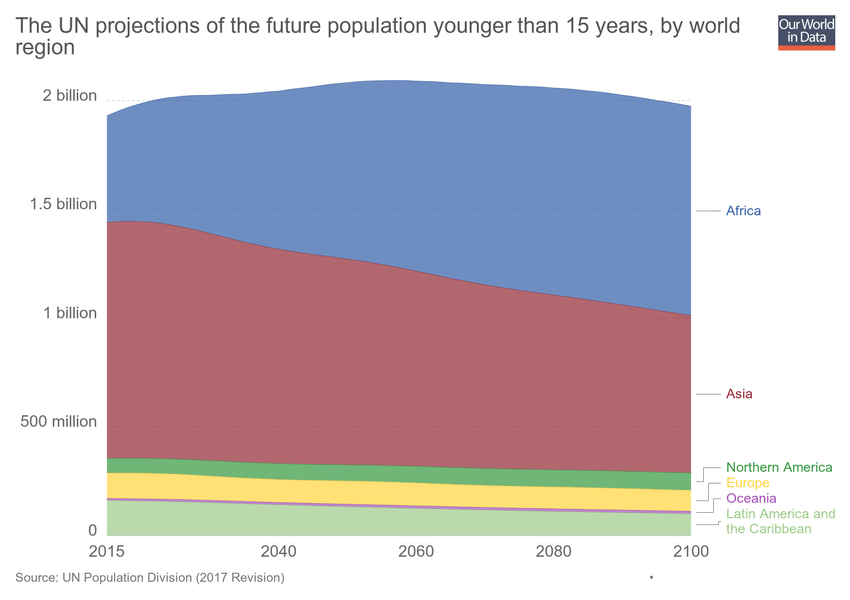
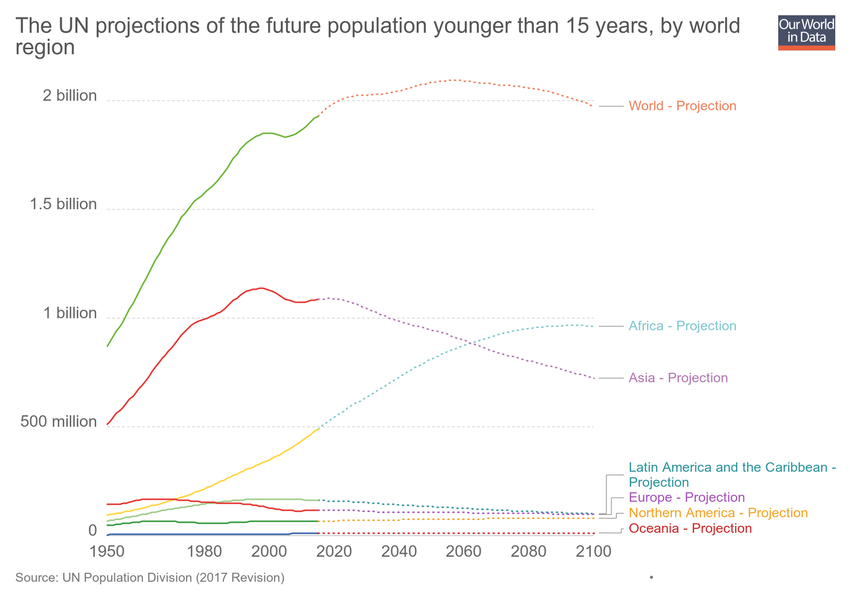
Updating chart younger-than-15-projection-until-2100-un

diff --git a/grapher/younger-than-15-projection-until-2100-un.html b/grapher/younger-than-15-projection-until-2100-un.html
@@ -1,4 +1,4 @@
-<!doctype html><html><head><meta name="viewport" content="width=device-width, initial-scale=1" /><title>The UN projections of the future population younger than 15 years, by world region - Our World in Data</title><meta name="description" content="An interactive visualization from Our World in Data." /><link rel="canonical" href="https://ourworldindata.org/grapher/younger-than-15-projection-until-2100-un" /><meta property="fb:app_id" content="1149943818390250" /><meta property="og:url" content="https://ourworldindata.org/grapher/younger-than-15-projection-until-2100-un" /><meta property="og:title" content="The UN projections of the future population younger than 15 years, by world region" /><meta property="og:description" content="An interactive visualization from Our World in Data." /><meta property="og:image" content="https://ourworldindata.org/grapher/exports/younger-than-15-projection-until-2100-un.png?v=5" /><meta property="og:image:width" content="850" /><meta property="og:image:height" content="600" /><meta property="og:site_name" content="Our World in Data" /><meta name="twitter:card" content="summary_large_image" /><meta name="twitter:site" content="@OurWorldInData" /><meta name="twitter:creator" content="@OurWorldInData" /><meta name="twitter:title" content="The UN projections of the future population younger than 15 years, by world region" /><meta name="twitter:description" content="An interactive visualization from Our World in Data." /><meta name="twitter:image" content="https://ourworldindata.org/grapher/exports/younger-than-15-projection-until-2100-un.png?v=5" /><style>
+<!doctype html><html><head><meta name="viewport" content="width=device-width, initial-scale=1" /><title>The UN projections of the future population younger than 15 years, by world region - Our World in Data</title><meta name="description" content="An interactive visualization from Our World in Data." /><link rel="canonical" href="https://ourworldindata.org/grapher/younger-than-15-projection-until-2100-un" /><meta property="fb:app_id" content="1149943818390250" /><meta property="og:url" content="https://ourworldindata.org/grapher/younger-than-15-projection-until-2100-un" /><meta property="og:title" content="The UN projections of the future population younger than 15 years, by world region" /><meta property="og:description" content="An interactive visualization from Our World in Data." /><meta property="og:image" content="https://ourworldindata.org/grapher/exports/younger-than-15-projection-until-2100-un.png?v=6" /><meta property="og:image:width" content="850" /><meta property="og:image:height" content="600" /><meta property="og:site_name" content="Our World in Data" /><meta name="twitter:card" content="summary_large_image" /><meta name="twitter:site" content="@OurWorldInData" /><meta name="twitter:creator" content="@OurWorldInData" /><meta name="twitter:title" content="The UN projections of the future population younger than 15 years, by world region" /><meta name="twitter:description" content="An interactive visualization from Our World in Data." /><meta name="twitter:image" content="https://ourworldindata.org/grapher/exports/younger-than-15-projection-until-2100-un.png?v=6" /><style>
         html, body {
             height: 100%;
             margin: 0;
@@ -20,8 +20,8 @@
         }
     </style><noscript><style>
                     figure { display: none !important; }
-                </style></noscript><link rel="stylesheet" href="https://ourworldindata.org/grapher/assets/commons.bundle.dcbbe53805c487d5e57617b10ac73a8a.css" /><link rel="preload" href="/grapher/data/variables/8469.json?v=5" as="fetch" crossorigin /></head><body class="singleChart"><figure data-grapher-src="/grapher/younger-than-15-projection-until-2100-un"></figure><noscript id="fallback"><img src="/grapher/exports/younger-than-15-projection-until-2100-un.svg" /><p>Interactive visualization requires JavaScript</p></noscript><script src="https://cdn.polyfill.io/v2/polyfill.min.js?features=es6,fetch"></script><script src="https://ourworldindata.org/grapher/assets/commons.bundle.da523acc49807a06a11f.js"></script><script src="https://ourworldindata.org/grapher/assets/charts.bundle.da523acc49807a06a11f.js"></script><script>
-        var jsonConfig = {"id":2822,"map":{"projection":"World","targetYear":2000,"variableId":8523,"timeTolerance":1,"baseColorScheme":"BuGn","colorSchemeInvert":false,"colorSchemeLabels":[],"colorSchemeValues":[],"legendDescription":"","customColorsActive":false,"colorSchemeMinValue":0,"customNumericColors":[],"customCategoryColors":{},"customCategoryLabels":{},"customHiddenCategories":{}},"tab":"chart","note":"","slug":"younger-than-15-projection-until-2100-un","type":"StackedArea","title":"The UN projections of the future population younger than 15 years, by world region","xAxis":{"scaleType":"linear"},"yAxis":{"min":0,"scaleType":"linear","labelDistance":-10},"version":5,"hasMapTab":false,"originUrl":"","stackMode":null,"dimensions":[{"display":{"name":"Projection","unit":" ","tolerance":5,"isProjection":true},"property":"y","variableId":8469}],"entityType":"country","hideLegend":false,"hasChartTab":true,"isPublished":true,"selectedData":[{"color":"#3360a9","index":0,"entityId":273},{"color":"#932834","index":0,"entityId":275},{"color":"#34983f","index":0,"entityId":450},{"color":"#ffd53e","index":0,"entityId":276},{"color":"#a652ba","index":0,"entityId":277},{"color":"#9ecc8a","index":0,"entityId":343}],"internalNotes":"","addCountryMode":"add-country","hideRelativeToggle":false,"hideTitleAnnotation":true};
+                </style></noscript><link rel="stylesheet" href="https://ourworldindata.org/grapher/assets/commons.bundle.dcbbe53805c487d5e57617b10ac73a8a.css" /><link rel="preload" href="/grapher/data/variables/8469+8412.json?v=6" as="fetch" crossorigin /></head><body class="singleChart"><figure data-grapher-src="/grapher/younger-than-15-projection-until-2100-un"></figure><noscript id="fallback"><img src="/grapher/exports/younger-than-15-projection-until-2100-un.svg" /><p>Interactive visualization requires JavaScript</p></noscript><script src="https://cdn.polyfill.io/v2/polyfill.min.js?features=es6,fetch"></script><script src="https://ourworldindata.org/grapher/assets/commons.bundle.da523acc49807a06a11f.js"></script><script src="https://ourworldindata.org/grapher/assets/charts.bundle.da523acc49807a06a11f.js"></script><script>
+        var jsonConfig = {"id":2822,"map":{"projection":"World","targetYear":2000,"variableId":8523,"timeTolerance":1,"baseColorScheme":"BuGn","colorSchemeInvert":false,"colorSchemeLabels":[],"colorSchemeValues":[],"legendDescription":"","customColorsActive":false,"colorSchemeMinValue":0,"customNumericColors":[],"customCategoryColors":{},"customCategoryLabels":{},"customHiddenCategories":{}},"tab":"chart","note":"","slug":"younger-than-15-projection-until-2100-un","type":"LineChart","title":"The UN projections of the future population younger than 15 years, by world region","xAxis":{"scaleType":"linear"},"yAxis":{"min":0,"scaleType":"linear","labelDistance":-10},"version":6,"hasMapTab":false,"originUrl":"","stackMode":null,"dimensions":[{"display":{"name":"Projection","unit":" ","tolerance":5,"isProjection":true},"property":"y","variableId":8469},{"display":{},"property":"y","variableId":8412}],"entityType":"country","hideLegend":false,"hasChartTab":true,"isPublished":true,"selectedData":[{"index":0,"entityId":355},{"index":1,"entityId":355},{"index":0,"entityId":273},{"index":1,"entityId":273},{"index":0,"entityId":343},{"index":1,"entityId":343},{"index":1,"entityId":450},{"index":0,"entityId":450},{"index":1,"entityId":277},{"index":0,"entityId":277},{"index":1,"entityId":276},{"index":0,"entityId":276},{"index":1,"entityId":275},{"index":0,"entityId":275}],"internalNotes":"","addCountryMode":"add-country","hideRelativeToggle":false,"hideTitleAnnotation":true};
         var figure = document.getElementsByTagName("figure")[0];
         try {
             window.App = {};
